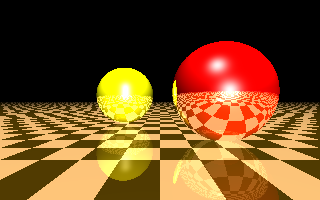
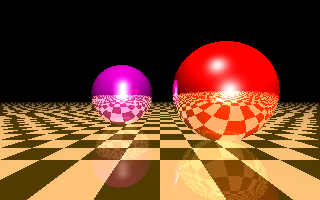
Stufe_3 fertig & README aktualisiert.

diff --git a/main.py b/main.py
@@ -15,11 +15,11 @@ from Geometry.triangle import Triangle
 ##### Anzeige des Renderfortschritts (True: mit Anzeige, False: ohne Anzeige)
 ZAEHLER = True
 
-SHOW = False
+SHOW = True
 ##### Bildformat festlegen (für Tests kleines Ausgabeformat, um Renderzeit zu sparen)
 # Grossbuchstaben sind Konstanten !
-WIDTH = 800 #320 #800 #1600
-HEIGHT = 600 #200 #600 #1200
+WIDTH = 320 #320 #800 #1600
+HEIGHT = 200 #200 #600 #1200
 
 ##### Ausgabe am Bildschirm (True) oder in der angegebenen Datei (False)
 RENDERED_IMG = "stufe3_2balls_schachbrett_triangle_" + WIDTH.__str__() + "x" + HEIGHT.__str__() + ".PNG"
@@ -33,10 +33,13 @@ def main():
     ##FARBEN
     rot = Color.from_hex("#FF0000")
     gelb = Color.from_hex("#FFFF00")
+    lila = Color.from_hex("#A0008F")
 
     ##Kugeln
+    #vordere Kugel
     kugel1 = Sphere(Point(0.75, -0.1, 1.0), 0.6, Material(rot))
-    kugel2 = Sphere(Point(-0.75, -0.1, 2.5), 0.6, Material(gelb))
+    #hintere Kugel
+    kugel2 = Sphere(Point(-0.75, -0.1, 2.25), 0.6, Material(lila))
 
     #Schachbrett-Ebene
     braun = Color.from_hex("#4A3601")

diff --git a/Render/engine.py b/Render/engine.py
@@ -9,7 +9,7 @@ class RenderEngine:
     """Erzeugt Pixel als array"""
 
     ##Stufe_3
-    MAX_DEPTH = 3
+    MAX_DEPTH = 5
     MIN_DISPLACE = 0.0001
 
     def rendertask(self, scene, zaehler):
@@ -198,7 +198,7 @@ class RenderEngine:
             #Kupfer: N=13
             #Gold/Silber: N=51
             #Schwarzes Plastik: N=32
-            N = 51
+            N = 50
             blinnPhong = (light.color * material.specular * max(cos2, 0) ** N)
 
             color += blinnPhong

diff --git a/Geometry/triangle.py b/Geometry/triangle.py
@@ -43,9 +43,6 @@ class Triangle:
         vu = uu
         v = vo / vu
 
-        #print("u: ", u)
-        #print("v: ", v)
-
         #liegt der Punkt im Dreieck?
         if 0 <= u <= 1 and 0 <= v <= 1 and 0 <= u+v <= 1:
             return True
